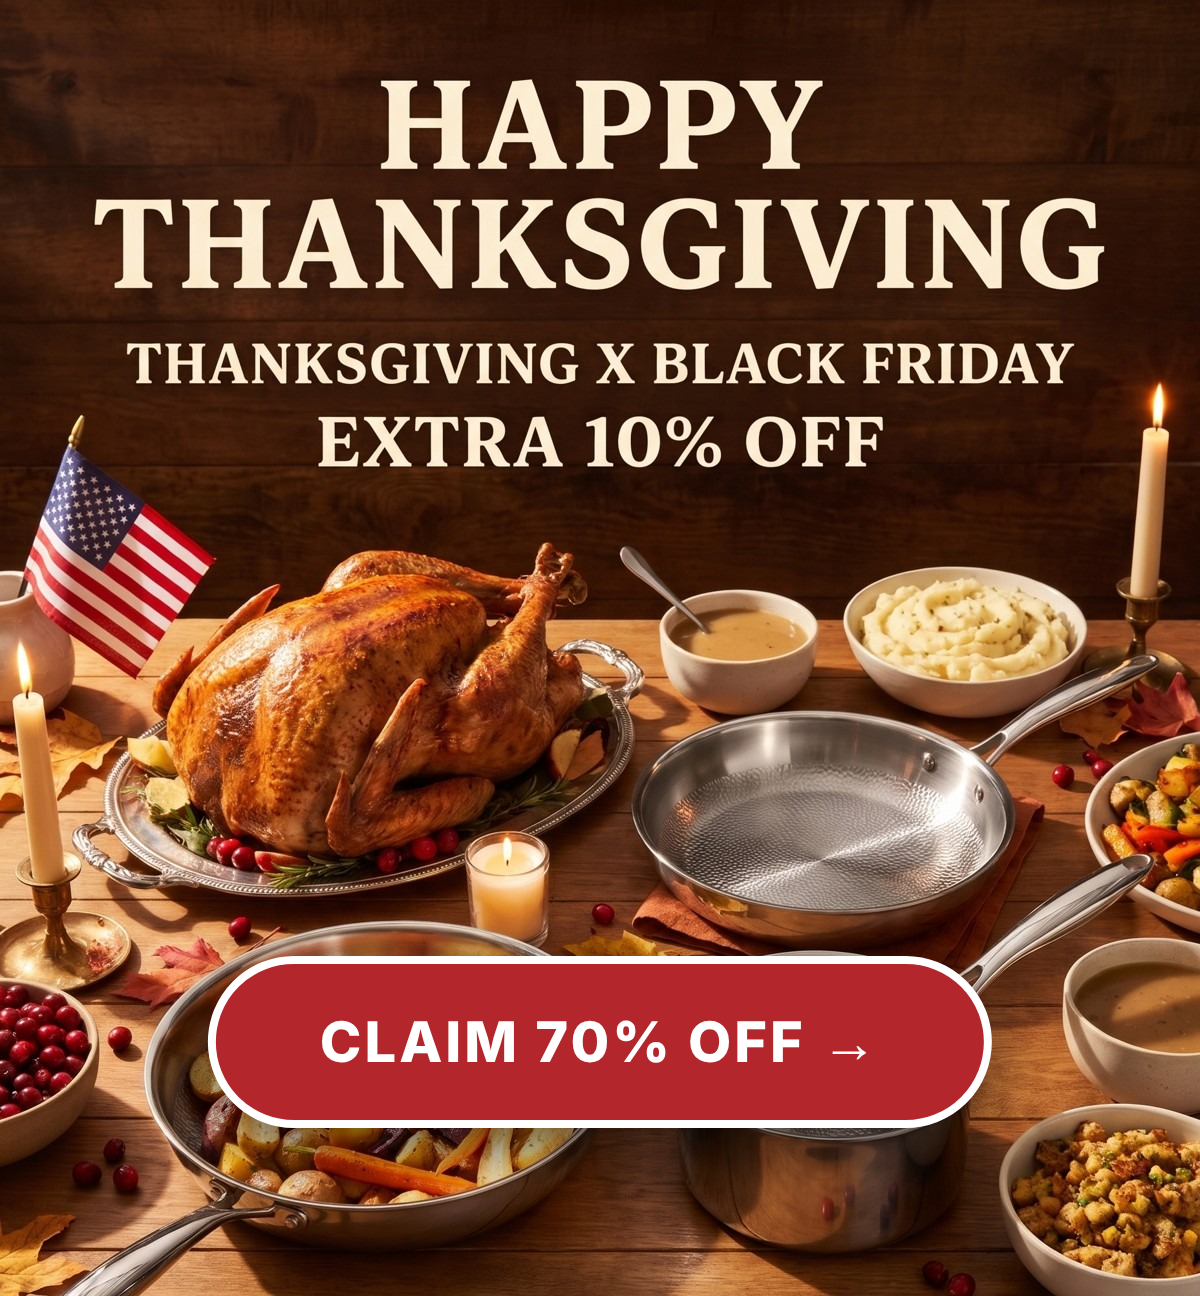
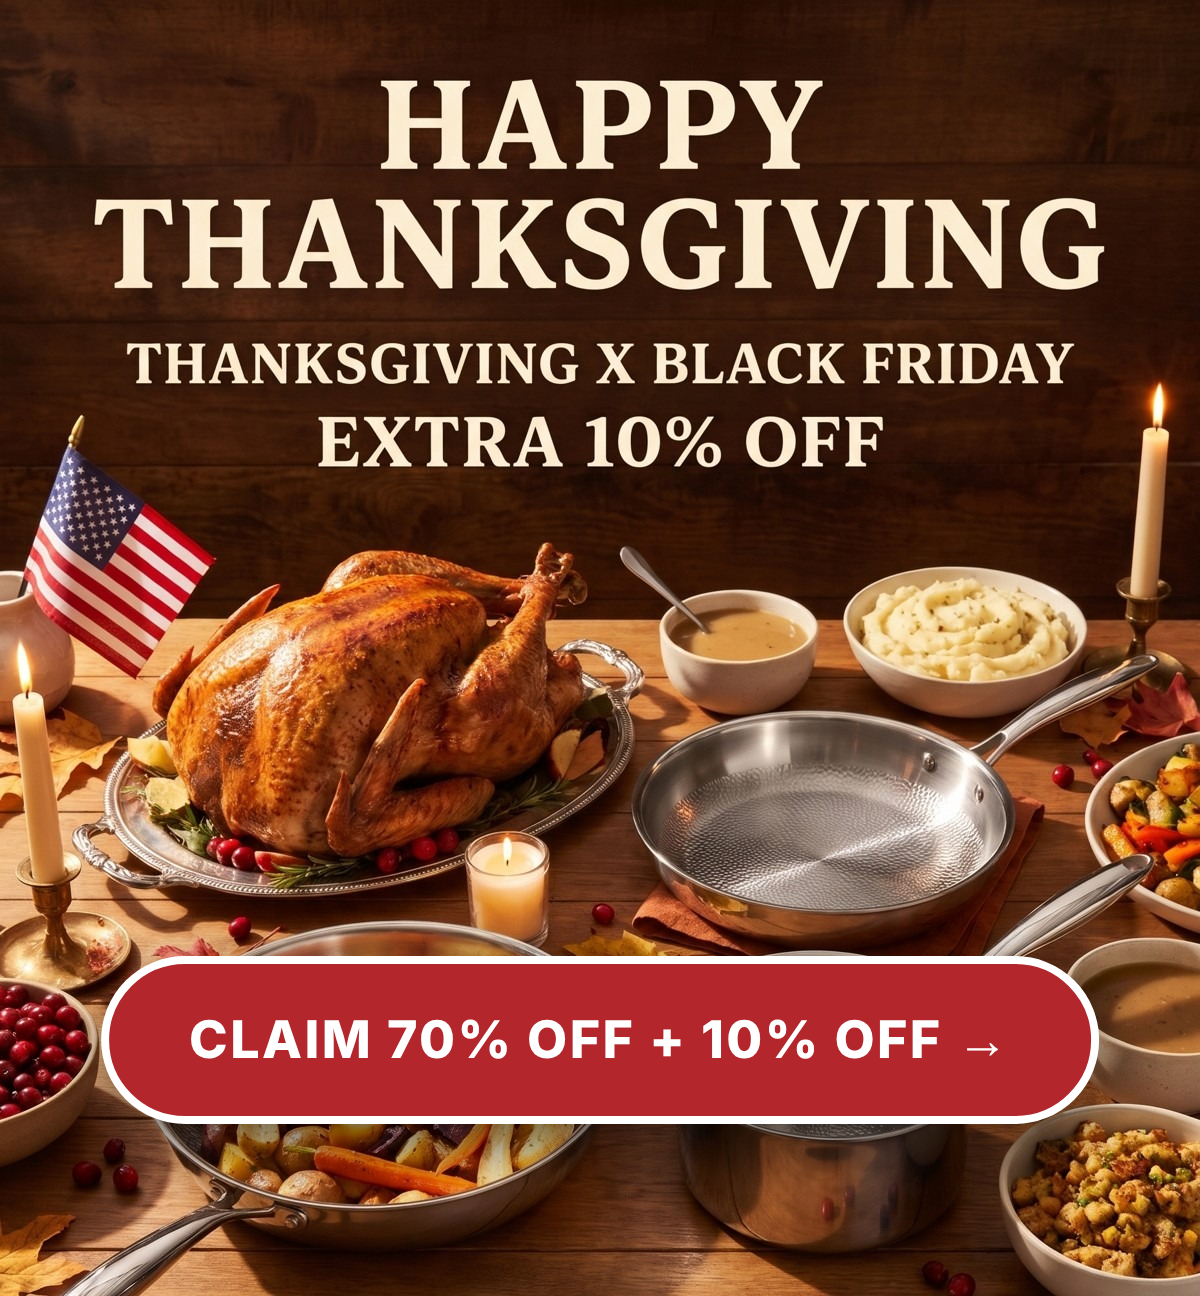
US hero button: CLAIM 70% OFF + 10% OFF
Claude-Session: https://claude.ai/code/session_01HjCaDE95ohEXY6DPZTSH67

Changed region(s): [[0.0617, 0.7099, 0.7708, 0.8951], [0.7708, 0.7099, 0.925, 0.8951]]

diff --git a/klaviyo/templates/v3/campaigns/thanksgiving-1126/_tools/.preview/us.html b/klaviyo/templates/v3/campaigns/thanksgiving-1126/_tools/.preview/us.html
@@ -18,7 +18,7 @@
 </td></tr>
 
 <tr><td bgcolor="#1F2A44" style="background-color:#1F2A44;padding:11px 20px;text-align:center;font-family:Inter,Arial,Helvetica,sans-serif;font-size:12px;line-height:17px;letter-spacing:1.5px;font-weight:700;color:#FFFFFF;">EXTRA 10% OFF ENDS TONIGHT AT MIDNIGHT</td></tr>
-<tr><td style="padding:0;"><a href="https://siraatskitchen.com/discount/THANKSGIVING10?redirect=/collections/black-friday-sale&utm_source=klaviyo&utm_medium=email&utm_campaign=thanksgiving-1126-us&utm_content=hero"><img src="https://cdn.klaviyomail.com/company/TdtTzz/images/2d5c7d65-94ab-4311-8675-988d3b4d4522.jpeg" width="600" alt="Happy Thanksgiving. Thanksgiving x Black Friday, extra 10% off. Claim 70% off." style="display:block;width:100%;max-width:600px;height:auto;border:0;"></a></td></tr>
+<tr><td style="padding:0;"><a href="https://siraatskitchen.com/discount/THANKSGIVING10?redirect=/collections/black-friday-sale&utm_source=klaviyo&utm_medium=email&utm_campaign=thanksgiving-1126-us&utm_content=hero"><img src="https://cdn.klaviyomail.com/company/TdtTzz/images/f3c0ba65-929f-4d96-9bd0-5dc84c79ed64.jpeg" width="600" alt="Happy Thanksgiving. Thanksgiving x Black Friday, extra 10% off. Claim 70% off + 10% off." style="display:block;width:100%;max-width:600px;height:auto;border:0;"></a></td></tr>
 <tr><td class="pad" bgcolor="#FFFFFF" style="padding:30px 40px 28px 40px;background-color:#FFFFFF;"><div style="font-family:Inter,Arial,Helvetica,sans-serif;font-size:19px;line-height:28px;color:#282828;text-align:left;padding:0 0 12px 0;"><b>Happy Thanksgiving 2026.</b></div><div style="font-family:Inter,Arial,Helvetica,sans-serif;font-size:17px;line-height:27px;color:#282828;text-align:left;padding:0 0 14px 0;">This morning I was at the office going through the Black Friday orders, and I kept thinking about this year. More than 100,000 of you now cook on our pans. When we started, that number was zero.</div><div style="font-family:Inter,Arial,Helvetica,sans-serif;font-size:17px;line-height:27px;color:#282828;text-align:left;padding:0 0 14px 0;">Today a lot of you are cooking Thanksgiving dinner on them. The turkey, the stuffing, the gravy your family argues about every year. That still doesn&rsquo;t feel real to me.</div><div style="font-family:Inter,Arial,Helvetica,sans-serif;font-size:17px;line-height:27px;color:#282828;text-align:left;padding:0 0 14px 0;">So I did something without running it by the team first: I put an <a href="https://siraatskitchen.com/discount/THANKSGIVING10?redirect=/collections/black-friday-sale&utm_source=klaviyo&utm_medium=email&utm_campaign=thanksgiving-1126-us&utm_content=story-extra10" style="color:#B3262C;font-weight:800;text-decoration:underline;">EXTRA 10% OFF EVERYTHING</a>, on top of the Black Friday sale. No meeting, no approval. Just a thank you for a year we never expected.</div><div style="font-family:Inter,Arial,Helvetica,sans-serif;font-size:17px;line-height:27px;color:#282828;text-align:left;padding:0 0 14px 0;">It&rsquo;s already applied when you tap the button or any image in this email. <a href="https://siraatskitchen.com/discount/THANKSGIVING10?redirect=/collections/black-friday-sale&utm_source=klaviyo&utm_medium=email&utm_campaign=thanksgiving-1126-us&utm_content=story-link" style="color:#B3262C;font-weight:700;text-decoration:underline;">The extra 10% ends tonight at midnight.</a></div><div style="font-family:Inter,Arial,Helvetica,sans-serif;font-size:17px;line-height:27px;color:#282828;text-align:left;padding:0 0 14px 0;">Here&rsquo;s to a full table today, and a healthy end of the year for you and yours.</div><div style="font-family:Inter,Arial,Helvetica,sans-serif;font-size:17px;line-height:27px;color:#282828;text-align:left;padding:0 0 14px 0;"><i>Don&rsquo;t tell anyone, but this discount is honestly a bit crazy. I have to switch it off tonight, or my marketing team is going to be mad at me. But in the end I&rsquo;m the founder, so what does it matter.</i></div><div style="font-family:Inter,Arial,Helvetica,sans-serif;font-size:17px;line-height:27px;color:#282828;text-align:left;padding:4px 0 0 0;">Benjamin<br><span style="color:#6B6660;font-size:14px;">Founder, Siraat</span></div></td></tr>
 <tr><td class="pad" bgcolor="#FFFFFF" style="padding:6px 40px 40px 40px;background-color:#FFFFFF;"><table role="presentation" width="100%" cellpadding="0" cellspacing="0" border="0"><tr><td align="center" bgcolor="#B3262C" style="background-color:#B3262C;border-radius:4px;"><a href="https://siraatskitchen.com/discount/THANKSGIVING10?redirect=/collections/black-friday-sale&utm_source=klaviyo&utm_medium=email&utm_campaign=thanksgiving-1126-us&utm_content=offer-btn" style="display:block;padding:18px 20px;font-family:Inter,Arial,Helvetica,sans-serif;font-size:15px;line-height:20px;font-weight:700;letter-spacing:1.2px;text-transform:uppercase;color:#FFFFFF;text-decoration:none;">Shop the Black Friday sale &rarr;</a></td></tr></table></td></tr>
 

diff --git a/klaviyo/templates/v3/campaigns/thanksgiving-1126/us.html b/klaviyo/templates/v3/campaigns/thanksgiving-1126/us.html
@@ -18,7 +18,7 @@
 </td></tr>
 
 <tr><td bgcolor="#1F2A44" style="background-color:#1F2A44;padding:11px 20px;text-align:center;font-family:Inter,Arial,Helvetica,sans-serif;font-size:12px;line-height:17px;letter-spacing:1.5px;font-weight:700;color:#FFFFFF;">EXTRA 10% OFF ENDS TONIGHT AT MIDNIGHT</td></tr>
-<tr><td style="padding:0;"><a href="https://siraatskitchen.com/discount/THANKSGIVING10?redirect=/collections/black-friday-sale&utm_source=klaviyo&utm_medium=email&utm_campaign=thanksgiving-1126-us&utm_content=hero"><img src="https://cdn.klaviyomail.com/company/TdtTzz/images/2d5c7d65-94ab-4311-8675-988d3b4d4522.jpeg" width="600" alt="Happy Thanksgiving. Thanksgiving x Black Friday, extra 10% off. Claim 70% off." style="display:block;width:100%;max-width:600px;height:auto;border:0;"></a></td></tr>
+<tr><td style="padding:0;"><a href="https://siraatskitchen.com/discount/THANKSGIVING10?redirect=/collections/black-friday-sale&utm_source=klaviyo&utm_medium=email&utm_campaign=thanksgiving-1126-us&utm_content=hero"><img src="https://cdn.klaviyomail.com/company/TdtTzz/images/f3c0ba65-929f-4d96-9bd0-5dc84c79ed64.jpeg" width="600" alt="Happy Thanksgiving. Thanksgiving x Black Friday, extra 10% off. Claim 70% off + 10% off." style="display:block;width:100%;max-width:600px;height:auto;border:0;"></a></td></tr>
 <tr><td class="pad" bgcolor="#FFFFFF" style="padding:30px 40px 28px 40px;background-color:#FFFFFF;"><div style="font-family:Inter,Arial,Helvetica,sans-serif;font-size:19px;line-height:28px;color:#282828;text-align:left;padding:0 0 12px 0;"><b>Happy Thanksgiving 2026.</b></div><div style="font-family:Inter,Arial,Helvetica,sans-serif;font-size:17px;line-height:27px;color:#282828;text-align:left;padding:0 0 14px 0;">This morning I was at the office going through the Black Friday orders, and I kept thinking about this year. More than 100,000 of you now cook on our pans. When we started, that number was zero.</div><div style="font-family:Inter,Arial,Helvetica,sans-serif;font-size:17px;line-height:27px;color:#282828;text-align:left;padding:0 0 14px 0;">Today a lot of you are cooking Thanksgiving dinner on them. The turkey, the stuffing, the gravy your family argues about every year. That still doesn&rsquo;t feel real to me.</div><div style="font-family:Inter,Arial,Helvetica,sans-serif;font-size:17px;line-height:27px;color:#282828;text-align:left;padding:0 0 14px 0;">So I did something without running it by the team first: I put an <a href="https://siraatskitchen.com/discount/THANKSGIVING10?redirect=/collections/black-friday-sale&utm_source=klaviyo&utm_medium=email&utm_campaign=thanksgiving-1126-us&utm_content=story-extra10" style="color:#B3262C;font-weight:800;text-decoration:underline;">EXTRA 10% OFF EVERYTHING</a>, on top of the Black Friday sale. No meeting, no approval. Just a thank you for a year we never expected.</div><div style="font-family:Inter,Arial,Helvetica,sans-serif;font-size:17px;line-height:27px;color:#282828;text-align:left;padding:0 0 14px 0;">It&rsquo;s already applied when you tap the button or any image in this email. <a href="https://siraatskitchen.com/discount/THANKSGIVING10?redirect=/collections/black-friday-sale&utm_source=klaviyo&utm_medium=email&utm_campaign=thanksgiving-1126-us&utm_content=story-link" style="color:#B3262C;font-weight:700;text-decoration:underline;">The extra 10% ends tonight at midnight.</a></div><div style="font-family:Inter,Arial,Helvetica,sans-serif;font-size:17px;line-height:27px;color:#282828;text-align:left;padding:0 0 14px 0;">Here&rsquo;s to a full table today, and a healthy end of the year for you and yours.</div><div style="font-family:Inter,Arial,Helvetica,sans-serif;font-size:17px;line-height:27px;color:#282828;text-align:left;padding:0 0 14px 0;"><i>Don&rsquo;t tell anyone, but this discount is honestly a bit crazy. I have to switch it off tonight, or my marketing team is going to be mad at me. But in the end I&rsquo;m the founder, so what does it matter.</i></div><div style="font-family:Inter,Arial,Helvetica,sans-serif;font-size:17px;line-height:27px;color:#282828;text-align:left;padding:4px 0 0 0;">Benjamin<br><span style="color:#6B6660;font-size:14px;">Founder, Siraat</span></div></td></tr>
 <tr><td class="pad" bgcolor="#FFFFFF" style="padding:6px 40px 40px 40px;background-color:#FFFFFF;"><table role="presentation" width="100%" cellpadding="0" cellspacing="0" border="0"><tr><td align="center" bgcolor="#B3262C" style="background-color:#B3262C;border-radius:4px;"><a href="https://siraatskitchen.com/discount/THANKSGIVING10?redirect=/collections/black-friday-sale&utm_source=klaviyo&utm_medium=email&utm_campaign=thanksgiving-1126-us&utm_content=offer-btn" style="display:block;padding:18px 20px;font-family:Inter,Arial,Helvetica,sans-serif;font-size:15px;line-height:20px;font-weight:700;letter-spacing:1.2px;text-transform:uppercase;color:#FFFFFF;text-decoration:none;">Shop the Black Friday sale &rarr;</a></td></tr></table></td></tr>
 

diff --git a/klaviyo/templates/v3/campaigns/thanksgiving-1126/_tools/us-hero2.html b/klaviyo/templates/v3/campaigns/thanksgiving-1126/_tools/us-hero2.html
@@ -1,5 +1,5 @@
 <html><head><link href="https://fonts.googleapis.com/css2?family=Inter:wght@800&display=swap" rel="stylesheet"><style>
 body{margin:0}.s{position:relative;width:600px;height:648px;overflow:hidden}
 .s img{width:600px;height:648px;object-fit:cover;display:block}
-.b{position:absolute;left:50%;top:478px;transform:translateX(-50%);white-space:nowrap;background:#B3262C;border:4px solid #FFFFFF;border-radius:999px;padding:22px 52px;font-family:Inter,Arial,sans-serif;font-weight:800;font-size:28px;letter-spacing:1.5px;color:#fff;box-shadow:0 12px 32px rgba(0,0,0,.6)}
-</style></head><body><div class="s"><img src="hero-base-crop.jpg"><div class="b">CLAIM 70% OFF &rarr;</div></div></body></html>
+.b{position:absolute;left:50%;top:478px;transform:translateX(-50%);white-space:nowrap;background:#B3262C;border:4px solid #FFFFFF;border-radius:999px;padding:22px 40px;font-family:Inter,Arial,sans-serif;font-weight:800;font-size:26px;letter-spacing:1.2px;color:#fff;box-shadow:0 12px 32px rgba(0,0,0,.6)}
+</style></head><body><div class="s"><img src="hero-base-crop.jpg"><div class="b">CLAIM 70% OFF + 10% OFF &rarr;</div></div></body></html>

diff --git a/klaviyo/templates/v3/campaigns/thanksgiving-1126/_tools/build.py b/klaviyo/templates/v3/campaigns/thanksgiving-1126/_tools/build.py
@@ -87,7 +87,7 @@ IMG12SQ = 'https://cdn.shopify.com/s/files/1/0907/0877/1156/files/12pcsset.webp?
 def us():
     m = 'us'
     b = topbar('EXTRA 10% OFF ENDS TONIGHT AT MIDNIGHT')
-    b += f'<tr><td style="padding:0;"><a href="{link(SALE, m, "hero")}"><img src="{UP["us-hero-thanksgiving-v7.jpg"]}" width="600" alt="Happy Thanksgiving. Thanksgiving x Black Friday, extra 10% off. Claim 70% off." style="display:block;width:100%;max-width:600px;height:auto;border:0;"></a></td></tr>\n'
+    b += f'<tr><td style="padding:0;"><a href="{link(SALE, m, "hero")}"><img src="{UP["us-hero-thanksgiving-v8.jpg"]}" width="600" alt="Happy Thanksgiving. Thanksgiving x Black Friday, extra 10% off. Claim 70% off + 10% off." style="display:block;width:100%;max-width:600px;height:auto;border:0;"></a></td></tr>\n'
     story = (p('<b>Happy Thanksgiving 2026.</b>', 19, 28, pad='0 0 12px 0') +
              p('This morning I was at the office going through the Black Friday orders, and I kept thinking about this year. More than 100,000 of you now cook on our pans. When we started, that number was zero.') +
              p('Today a lot of you are cooking Thanksgiving dinner on them. The turkey, the stuffing, the gravy your family argues about every year. That still doesn&rsquo;t feel real to me.') +

diff --git a/LOG.md b/LOG.md
@@ -679,3 +679,4 @@ Nieuwste bovenaan. Elke regel: datum, wat er gedaan is, wat het opleverde of wat
 - 2026-11-26 · 'EXTRA 10% OFF EVERYTHING' in hoofdletters, rood, onderstreept en klikbaar (naar BF-sale) in US en INTL. Templates bijgewerkt, tests naar Lola.
 - 2026-11-26 · Campagnes klaargezet als concept (klassieke wizard): US 01M8AQT4QCVKCMAEVGSSTG62D8 (VMjhb2, ~94.610) en INTL 01M8AQT6SZ8FB8F2CEM519FKN5 (VdfJTJ excl. US, ~59.795), 10:00 lokaal. Uitgesloten: UJY6LA, UfyDPs, WFqvwp, Ur6Ehr, suppressies. INTL tekst 'ends tonight'. Tests naar florisvdheijdenn. Nog niet ingepland.
 - 2026-11-26 · Verzendtijd beide campagnes op 08:15 lokale tijd gezet (Floris klikt zelf op Schedule).
+- 2026-11-26 · US hero-knop 'CLAIM 70% OFF + 10% OFF' (v8). R7fybM en campagnetemplate RVGmn5 bijgewerkt; US-campagne nog Draft (08:15 lokaal). INTL-campagne staat op Sending (door Floris ingepland).
